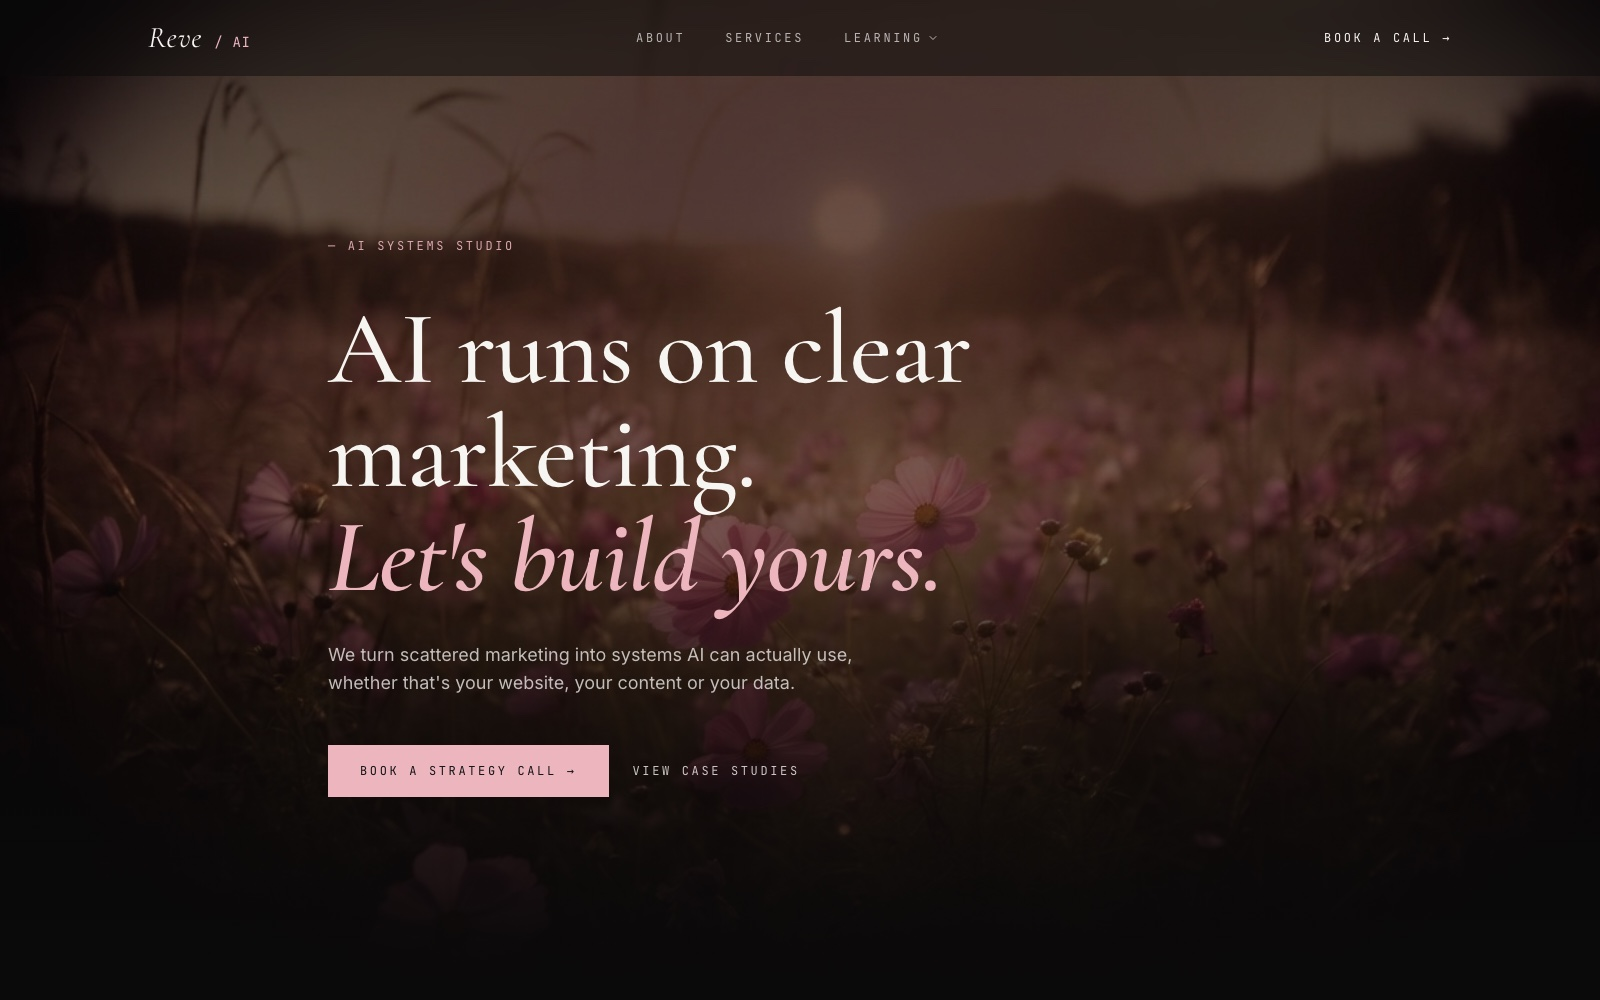
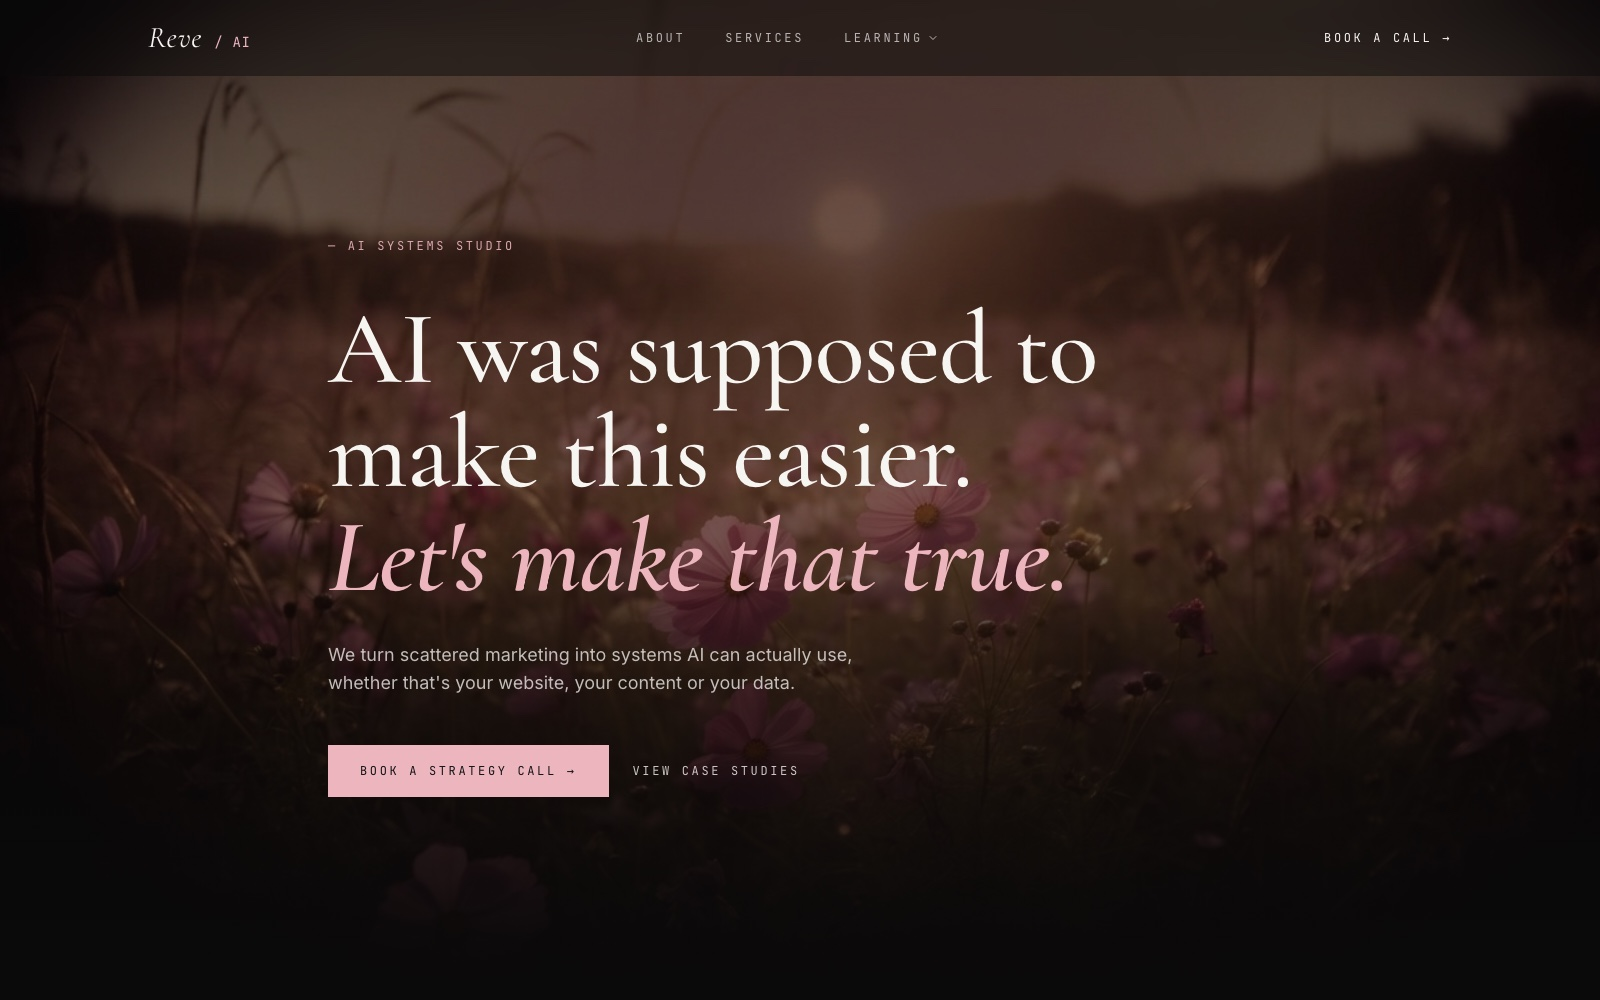
New homepage hero headline: AI was supposed to make this easier
Replaces the hero H1 with the broken promise headline and recaptures the AI-Built Websites card screenshot so it shows the new hero.

Changed region(s): [[0.2812, 0.31, 0.6875, 0.62]]

diff --git a/src/components/site/Hero.tsx b/src/components/site/Hero.tsx
@@ -16,9 +16,9 @@ const Hero = () => {
         <p className="label-eyebrow mb-10">— AI Systems Studio</p>
 
         <h1 className="display-serif text-4xl sm:text-5xl md:text-7xl lg:text-[6.5rem] text-foreground leading-tight">
-          AI runs on clear marketing.
+          AI was supposed to make this easier.
           <br />
-          <span className="display-italic">Let's build yours.</span>
+          <span className="display-italic">Let's make that true.</span>
         </h1>
 
         <p className="mt-8 text-foreground/75 text-base md:text-lg leading-relaxed max-w-xl">